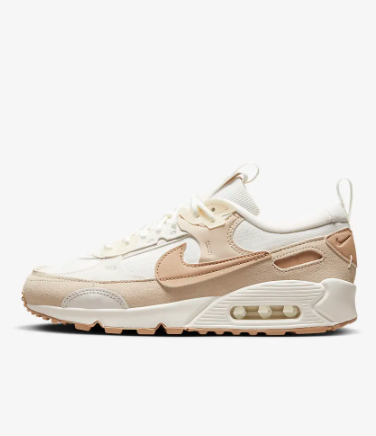
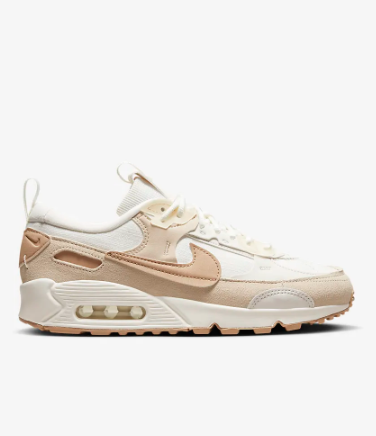
a

Changed region(s): [[0.0293, 0.3876, 0.9654, 0.7752]]

diff --git a/website/women.html b/website/women.html
@@ -166,89 +166,44 @@
 					<div class="col-md-3 col-lg-3 mb-4 text-center">
 						<div class="product-entry border">
 							<a href="#" class="prod-img">
-								<img src="images/item-5.jpg" class="img-fluid" alt="Free html5 bootstrap 4 template">
+								<img src="images/nike-women1.png" class="img-fluid" alt="Free html5 bootstrap 4 template">
 							</a>
 							<div class="desc">
-								<h2><a href="#">Women's Boots Shoes Maca</a></h2>
-								<span class="price">$139.00</span>
+								<h2><a href="#">Nike Juniper Trail 2 Next Nature</a></h2>
+								<span class="price">2.349.000 VND</span>
 							</div>
 						</div>
 					</div>
 					<div class="col-md-3 col-lg-3 mb-4 text-center">
 						<div class="product-entry border">
 							<a href="#" class="prod-img">
-								<img src="images/item-6.jpg" class="img-fluid" alt="Free html5 bootstrap 4 template">
+								<img src="images/nike-women3.png" class="img-fluid" alt="Free html5 bootstrap 4 template">
 							</a>
 							<div class="desc">
-								<h2><a href="#">Women's Boots Shoes Maca</a></h2>
-								<span class="price">$139.00</span>
+								<h2><a href="#">Nike Air Max 90 Futura</a></h2>
+								<span class="price">4.109.000 VND</span>
 							</div>
 						</div>
 					</div>
 					<div class="col-md-3 col-lg-3 mb-4 text-center">
 						<div class="product-entry border">
 							<a href="#" class="prod-img">
-								<img src="images/item-7.jpg" class="img-fluid" alt="Free html5 bootstrap 4 template">
+								<img src="images/nike-women5.png" class="img-fluid" alt="Free html5 bootstrap 4 template">
 							</a>
 							<div class="desc">
-								<h2><a href="#">Women's Boots Shoes Maca</a></h2>
-								<span class="price">$139.00</span>
+								<h2><a href="#">Nike Air Jordan XXXVII Low</a></h2>
+								<span class="price">5.719.000 VND</span>
 							</div>
 						</div>
 					</div>
 					<div class="col-md-3 col-lg-3 mb-4 text-center">
 						<div class="product-entry border">
 							<a href="#" class="prod-img">
-								<img src="images/item-8.jpg" class="img-fluid" alt="Free html5 bootstrap 4 template">
+								<img src="images/nike-women7.png" class="img-fluid" alt="Free html5 bootstrap 4 template">
 							</a>
 							<div class="desc">
-								<h2><a href="#">Women's Boots Shoes Maca</a></h2>
-								<span class="price">$139.00</span>
-							</div>
-						</div>
-					</div>
-					<div class="w-100"></div>
-					<div class="col-md-3 col-lg-3 mb-4 text-center">
-						<div class="product-entry border">
-							<a href="#" class="prod-img">
-								<img src="images/item-9.jpg" class="img-fluid" alt="Free html5 bootstrap 4 template">
-							</a>
-							<div class="desc">
-								<h2><a href="#">Women's Boots Shoes Maca</a></h2>
-								<span class="price">$139.00</span>
-							</div>
-						</div>
-					</div>
-					<div class="col-md-3 col-lg-3 mb-4 text-center">
-						<div class="product-entry border">
-							<a href="#" class="prod-img">
-								<img src="images/item-10.jpg" class="img-fluid" alt="Free html5 bootstrap 4 template">
-							</a>
-							<div class="desc">
-								<h2><a href="#">Women's Boots Shoes Maca</a></h2>
-								<span class="price">$139.00</span>
-							</div>
-						</div>
-					</div>
-					<div class="col-md-3 col-lg-3 mb-4 text-center">
-						<div class="product-entry border">
-							<a href="#" class="prod-img">
-								<img src="images/item-11.jpg" class="img-fluid" alt="Free html5 bootstrap 4 template">
-							</a>
-							<div class="desc">
-								<h2><a href="#">Women's Boots Shoes Maca</a></h2>
-								<span class="price">$139.00</span>
-							</div>
-						</div>
-					</div>
-					<div class="col-md-3 col-lg-3 mb-4 text-center">
-						<div class="product-entry border">
-							<a href="#" class="prod-img">
-								<img src="images/item-12.jpg" class="img-fluid" alt="Free html5 bootstrap 4 template">
-							</a>
-							<div class="desc">
-								<h2><a href="#">Women's Boots Shoes Maca</a></h2>
-								<span class="price">$139.00</span>
+								<h2><a href="#">Nike Zoom Fly 5</a></h2>
+								<span class="price">4.699.000 VND</span>
 							</div>
 						</div>
 					</div>
@@ -256,44 +211,44 @@
 					<div class="col-md-3 col-lg-3 mb-4 text-center">
 						<div class="product-entry border">
 							<a href="#" class="prod-img">
-								<img src="images/item-13.jpg" class="img-fluid" alt="Free html5 bootstrap 4 template">
+								<img src="images/skecher-women1.png" class="img-fluid" alt="Free html5 bootstrap 4 template">
 							</a>
 							<div class="desc">
-								<h2><a href="#">Women's Boots Shoes Maca</a></h2>
-								<span class="price">$139.00</span>
+								<h2><a href="#">Skechers Max Cushioning Hyper Craze Bounce - Rebound</a></h2>
+								<span class="price">3.000.000 VND</span>
 							</div>
 						</div>
 					</div>
 					<div class="col-md-3 col-lg-3 mb-4 text-center">
 						<div class="product-entry border">
 							<a href="#" class="prod-img">
-								<img src="images/item-14.jpg" class="img-fluid" alt="Free html5 bootstrap 4 template">
+								<img src="images/skecher-women3.png" class="img-fluid" alt="Free html5 bootstrap 4 template">
 							</a>
 							<div class="desc">
-								<h2><a href="#">Women's Boots Shoes Maca</a></h2>
-								<span class="price">$139.00</span>
+								<h2><a href="#">Skechers Max Cushioning Arch Fit - Delphi</a></h2>
+								<span class="price">2.700.000 VND</span>
 							</div>
 						</div>
 					</div>
 					<div class="col-md-3 col-lg-3 mb-4 text-center">
 						<div class="product-entry border">
 							<a href="#" class="prod-img">
-								<img src="images/item-15.jpg" class="img-fluid" alt="Free html5 bootstrap 4 template">
+								<img src="images/skecher-women5.png" class="img-fluid" alt="Free html5 bootstrap 4 template">
 							</a>
 							<div class="desc">
-								<h2><a href="#">Women's Boots Shoes Maca</a></h2>
-								<span class="price">$139.00</span>
+								<h2><a href="#">Skechers Arch Fit GO GOLF Max 2 - Splash</a></h2>
+								<span class="price">2.500.000 VND</span>
 							</div>
 						</div>
 					</div>
 					<div class="col-md-3 col-lg-3 mb-4 text-center">
 						<div class="product-entry border">
 							<a href="#" class="prod-img">
-								<img src="images/item-16.jpg" class="img-fluid" alt="Free html5 bootstrap 4 template">
+								<img src="images/skecher-women7.png" class="img-fluid" alt="Free html5 bootstrap 4 template">
 							</a>
 							<div class="desc">
-								<h2><a href="#">Women's Boots Shoes Maca</a></h2>
-								<span class="price">$139.00</span>
+								<h2><a href="#">Skechers Viper Court Pro - Pickleball</a></h2>
+								<span class="price">2.700.000 VND</span>
 							</div>
 						</div>
 					</div>
@@ -301,44 +256,89 @@
 					<div class="col-md-3 col-lg-3 mb-4 text-center">
 						<div class="product-entry border">
 							<a href="#" class="prod-img">
-								<img src="images/item-5.jpg" class="img-fluid" alt="Free html5 bootstrap 4 template">
+								<img src="images/mlb-women1.png" class="img-fluid" alt="Free html5 bootstrap 4 template">
 							</a>
 							<div class="desc">
-								<h2><a href="#">Women's Boots Shoes Maca</a></h2>
-								<span class="price">$139.00</span>
+								<h2><a href="#">MLB BigBall Chunky A Gradient Classic Monogram New York Yankees Ivory</a></h2>
+								<span class="price">3.990.000 VND</span>
 							</div>
 						</div>
 					</div>
 					<div class="col-md-3 col-lg-3 mb-4 text-center">
 						<div class="product-entry border">
 							<a href="#" class="prod-img">
-								<img src="images/item-6.jpg" class="img-fluid" alt="Free html5 bootstrap 4 template">
+								<img src="images/mlb-women3.png" class="img-fluid" alt="Free html5 bootstrap 4 template">
 							</a>
 							<div class="desc">
-								<h2><a href="#">Women's Boots Shoes Maca</a></h2>
-								<span class="price">$139.00</span>
+								<h2><a href="#">MLB Chunky Classic Dia Mono Heel New York Yankees Black</a></h2>
+								<span class="price">3.790.000 VND</span>
 							</div>
 						</div>
 					</div>
 					<div class="col-md-3 col-lg-3 mb-4 text-center">
 						<div class="product-entry border">
 							<a href="#" class="prod-img">
-								<img src="images/item-7.jpg" class="img-fluid" alt="Free html5 bootstrap 4 template">
+								<img src="images/mlb-women5.png" class="img-fluid" alt="Free html5 bootstrap 4 template">
 							</a>
 							<div class="desc">
-								<h2><a href="#">Women's Boots Shoes Maca</a></h2>
-								<span class="price">$139.00</span>
+								<h2><a href="#">MLB Chunky Liner Candy Pop Pink Boston Red Sox</a></h2>
+								<span class="price">3.790.000 VND</span>
 							</div>
 						</div>
 					</div>
 					<div class="col-md-3 col-lg-3 mb-4 text-center">
 						<div class="product-entry border">
 							<a href="#" class="prod-img">
-								<img src="images/item-8.jpg" class="img-fluid" alt="Free html5 bootstrap 4 template">
+								<img src="images/mlb-women7.png" class="img-fluid" alt="Free html5 bootstrap 4 template">
 							</a>
 							<div class="desc">
-								<h2><a href="#">Women's Boots Shoes Maca</a></h2>
-								<span class="price">$139.00</span>
+								<h2><a href="#">WMLB Chunky Jogger New York Yankees L Coral</a></h2>
+								<span class="price">2.790.000 VND</span>
+							</div>
+						</div>
+					</div>
+					<div class="w-100"></div>
+					<div class="col-md-3 col-lg-3 mb-4 text-center">
+						<div class="product-entry border">
+							<a href="#" class="prod-img">
+								<img src="images/puma-women1.jpg" class="img-fluid" alt="Free html5 bootstrap 4 template">
+							</a>
+							<div class="desc">
+								<h2><a href="#">PUMA x FIRST MILE Run XX NITRO Women's Running Shoes</a></h2>
+								<span class="price">3.300.000 VND</span>
+							</div>
+						</div>
+					</div>
+					<div class="col-md-3 col-lg-3 mb-4 text-center">
+						<div class="product-entry border">
+							<a href="#" class="prod-img">
+								<img src="images/puma-women3.webp" class="img-fluid" alt="Free html5 bootstrap 4 template">
+							</a>
+							<div class="desc">
+								<h2><a href="#">Suede Camowave Women's Sneakers</a></h2>
+								<span class="price">1.990.000 VND</span>
+							</div>
+						</div>
+					</div>
+					<div class="col-md-3 col-lg-3 mb-4 text-center">
+						<div class="product-entry border">
+							<a href="#" class="prod-img">
+								<img src="images/puma-women5.webp" class="img-fluid" alt="Free html5 bootstrap 4 template">
+							</a>
+							<div class="desc">
+								<h2><a href="#">PUMA x THE RAGGED PRIEST Mayze Stack Women's Sneakers</a></h2>
+								<span class="price">2.930.000 VND</span>
+							</div>
+						</div>
+					</div>
+					<div class="col-md-3 col-lg-3 mb-4 text-center">
+						<div class="product-entry border">
+							<a href="#" class="prod-img">
+								<img src="images/puma-women7.webp" class="img-fluid" alt="Free html5 bootstrap 4 template">
+							</a>
+							<div class="desc">
+								<h2><a href="#">RS-X Fantasy Women's Sneakers</a></h2>
+								<span class="price">2.600.000 VND</span>
 							</div>
 						</div>
 					</div>
